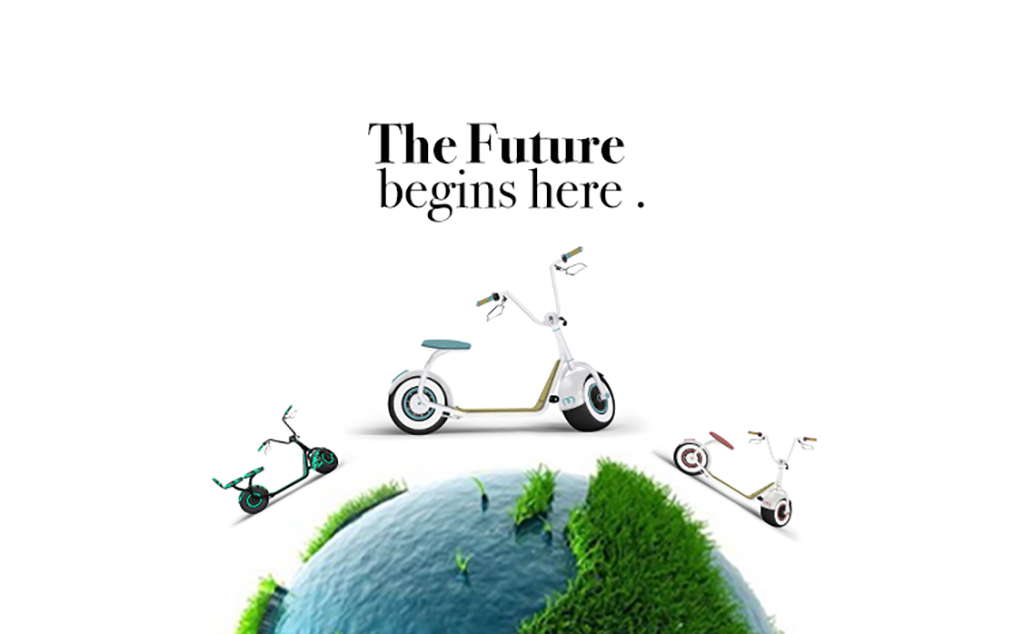
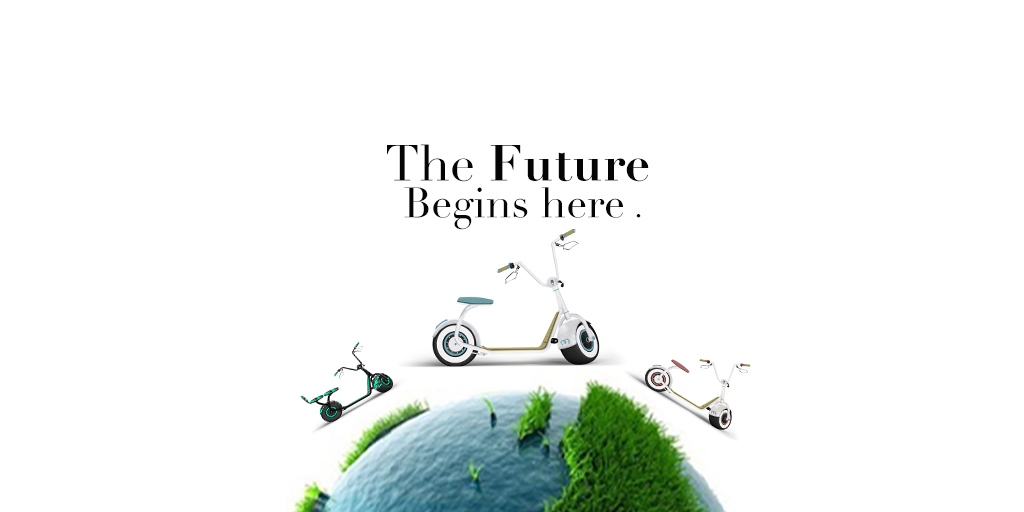
push

Changed region(s): [[0.1875, 0.1875, 0.7812, 1.0], [0.7812, 0.6875, 0.8125, 0.7188]]

diff --git a/public/index.html b/public/index.html
@@ -82,7 +82,7 @@
 										
 										<li class="youtube"><a target="_blank" href="http://www.youtube.com"><i class="fa fa-youtube-play"></i></a></li>
 										
-										<li class="facebook"><a target="_blank" href="http://www.facebook.com"><i class="fa fa-facebook"></i></a></li>
+										<li class="facebook"><a target="_blank" href="https://www.facebook.com/creativelectricmotors/"><i class="fa fa-facebook"></i></a></li>
 										
 									</ul>
 									<div class="social-links hidden-lg hidden-md hidden-sm circle small">
@@ -241,7 +241,7 @@
 								<li data-transition="slidehorizontal" data-slotamount="default" data-masterspeed="default" data-title="Creative Electric Motors">
 								
 								<!-- main image -->
-								<img src="images/bgbg100.jpg" width="1024px"alt="slidebg1" data-bgposition="center center" data-bgrepeat="no-repeat" data-bgfit="cover" class="rev-slidebg">
+								<img src="images/bgbg10.jpg" width="1024px"alt="slidebg1" data-bgposition="center center" data-bgrepeat="no-repeat" data-bgfit="cover" class="rev-slidebg">
 
 								<!-- Transparent Background -->
 							
@@ -426,7 +426,7 @@
 								<li data-transition="slidehorizontal" data-slotamount="7" data-masterspeed="default" data-title="The Future Begins Here">
 								
 								<!-- main image -->
-								<img src="images/vert.png" alt="slidebg2" data-bgposition="center center" data-bgrepeat="no-repeat" data-bgfit="cover" class="rev-slidebg">
+								<img src="images/artdesign.jpg" alt="slidebg2" data-bgposition="center center" data-bgrepeat="no-repeat" data-bgfit="cover" class="rev-slidebg">
 
 								<!-- Transparent Background -->
 							
@@ -498,17 +498,11 @@
 			<div id="page-start"></div><br>
 			<div class="container">
 					<div class="row">
-
+						<center><iframe width="100%" height="475" src="https://www.youtube.com/embed/JmYlRR-GviQ?rel=0" frameborder="0" allowfullscreen></iframe></center>
 						<!-- main start -->
 						<!-- ================ -->
-						<div id="videos"class="main col-md-12">
-							<div class="separator-2"></div>
-							<div class="row">
-								<div class="col-md-6">
-									<center><iframe width="100%" height="375" src="https://www.youtube.com/embed/JmYlRR-GviQ?rel=0" frameborder="0" allowfullscreen></iframe></center>
-								</div>
-								<div class="col-md-6">
-									<iframe width="100%" height="375" src="https://www.youtube.com/embed/eszIV-oXhuo?rel=0" frameborder="0" allowfullscreen></iframe>
+						
+									
 									<!--<div class="owl-carousel content-slider-with-controls">
 										<div class="overlay-container overlay-visible">
 											<img src="images/nyc.jpg" alt="">
@@ -538,9 +532,7 @@
 											<a href="images/cembg2.jpg" class="popup-img overlay-link" title="image title"><i class="icon-plus-1"></i></a>
 										</div>
 									</div>-->
-								</div>
-							</div>
-						</div>
+								
 						<!-- main end -->
 
 					</div>
@@ -1888,6 +1880,12 @@
 
 					</div>
 				</div><br><br>
+				<div class="container">
+					<div class="row">
+				<center><iframe width="100%" height="475" src="https://www.youtube.com/embed/eszIV-oXhuo?rel=0" frameborder="0" allowfullscreen></iframe></center>
+
+			</div>
+		</div><br>
 						<!-- section start -->
 			<!-- ================ -->
 			<div id="why"class="section pv-40 parallax default-translucent-bg background-img-7">
@@ -1922,7 +1920,7 @@
 
 			<!-- section start -->
 			<!-- ================ -->
-			<section class="light-gray-bg pv-30 clearfix">
+			<!--<section class="light-gray-bg pv-30 clearfix">
 				<div class="container">
 					<div class="row">
 						<div class="col-md-8 col-md-offset-2">
@@ -1959,7 +1957,7 @@
 						</div>
 					</div>
 				</div>
-			</section>
+			</section>-->
 			<!-- section end -->
 
 			<!-- section start -->
@@ -2034,7 +2032,7 @@
 				</div>
 			</div>
 			<!-- footer top end -->
-
+			<script src='https://maps.googleapis.com/maps/api/js?v=3.exp'></script><div style='overflow:hidden;height:440px;width:100%;'><div id='gmap_canvas' style='height:440px;width:100%;'></div><div><small><a href="http://embedgooglemaps.com">embed google maps</a></small></div><div><small><a href="http://phplinkdir.com/">link directory</a></small></div><style>#gmap_canvas img{max-width:none!important;background:none!important}</style></div><script type='text/javascript'>function init_map(){var myOptions = {zoom:10,center:new google.maps.LatLng(25.7747969,-80.13527149999999),mapTypeId: google.maps.MapTypeId.ROADMAP};map = new google.maps.Map(document.getElementById('gmap_canvas'), myOptions);marker = new google.maps.Marker({map: map,position: new google.maps.LatLng(25.7747969,-80.13527149999999)});infowindow = new google.maps.InfoWindow({content:'<strong>Creative Electric Motors</strong><br>713 5th Street Miami Beach, FL 33130<br>'});google.maps.event.addListener(marker, 'click', function(){infowindow.open(map,marker);});infowindow.open(map,marker);}google.maps.event.addDomListener(window, 'load', init_map);</script>
 			<!-- footer start (Add "dark" class to #footer in order to enable dark footer) -->
 			<!-- ================ -->
 			<footer id="footer" class="clearfix dark">
@@ -2053,18 +2051,20 @@
 BIKE SPECIALIST ESTIMATE CREATIVE ELECTRIC MOTORS AS PIONEER OF E-BIKE IN THE WORLD INNOVATION IS OUR DAILY COMPETITION , EVERYDAY NEW ACCESSORIES , MOTORS EVOLUTION, BIO MATERIAL AND DESIGN IS OUR TOP PRIORITY .<br><br>
 
 LETS RIDE GREEN !</b></p>
+<a href="javascript:void( window.open( 'https://form.jotform.com/70511579927161', 'blank', 'scrollbars=yes, toolbar=no, width=700, height=500' ) ) "> <b> Become an Authorized Dealer </b> </a>
 										<ul class="list-inline mb-20">
 											<li><i class="text-default fa fa-map-marker pr-5"></i>713 5th St<br>Miami Beach, FL 33139</li>
 											<li><a href="tel:3058349837" class="link-dark"><i class="text-default fa fa-phone pl-10 pr-5"></i>(305) 834-9837</a></li>
 											<li><a href="mailto:info@theproject.com" class="link-dark"><i class="text-default fa fa-envelope-o pl-10 pr-5"></i>info@creativeelectricmotors.com</a></li>
 										</ul>
 										<ul class="social-links circle animated-effect-1 margin-clear">
-											<li class="facebook"><a target="_blank" href="http://www.facebook.com"><i class="fa fa-facebook"></i></a></li>
+											<li class="facebook"><a target="_blank" href="https://www.facebook.com/creativelectricmotors/"><i class="fa fa-facebook"></i></a></li>
 											<li class="twitter"><a target="_blank" href="http://www.twitter.com"><i class="fa fa-twitter"></i></a></li>
 											<li class="googleplus"><a target="_blank" href="http://plus.google.com"><i class="fa fa-google-plus"></i></a></li>
 											<li class="linkedin"><a target="_blank" href="http://www.linkedin.com"><i class="fa fa-linkedin"></i></a></li>
 											<li class="xing"><a target="_blank" href="http://www.xing.com"><i class="fa fa-xing"></i></a></li>
 										</ul>
+
 										<div class="separator"></div>
 										<p class="text-center margin-clear">Copyright © 2017 Creative Electric Motors. All Rights Reserved <br><a href="returnpolicy.html"><b>RETURN AND REFUND POLICY</b></a></p>
 									</div>

diff --git a/public/css/skins/red.css b/public/css/skins/red.css
@@ -50,8 +50,8 @@ mark,
   border-top-color: #3a3333;
 }
 .header-top.colored {
-  background-color: #dc5b5b;
-  border-bottom: 1px solid #dc5b5b;
+  background-color: #fff;
+  border-bottom: 1px solid #fff;
 }
 .default-bg {
   background-color: #dc5b5b;
@@ -68,7 +68,7 @@ mark,
 }
 /*Fixed Navigation*/
 .fixed-header-on .dark.header.fixed {
-  background-color: rgba(58, 51, 51, 0.95);
+  background-color: rgba(70, 5, 8, 0.95);
 }
 /* Small devices (tablets, 768px and up) */
 @media (min-width: 768px) {

diff --git a/public/css/style.css b/public/css/style.css
@@ -734,7 +734,7 @@ tbody {
   background: url("../images/nyc.jpg") 50% 0px no-repeat;
 }
 .background-img-8 {
-  background: url("../images/green.jpg") 50% 0px no-repeat;
+  background: url("../images/bgbgre.jpg") 50% 0px no-repeat;
 }
 .background-img-9 {
   background: url("../images/background-img-9.jpg") 50% 0px no-repeat;

diff --git a/public/index-corporate-1.html b/public/index-corporate-1.html
@@ -680,7 +680,7 @@
 
 								</li>
 								<!-- slide 1 end -->
-
+ 
 								<!-- slide 2 start -->
 								<!-- ================ -->
 								<li data-transition="fade" data-slotamount="1" data-masterspeed="500" data-saveperformance="on" data-title="Premium Bootstrap Template">
